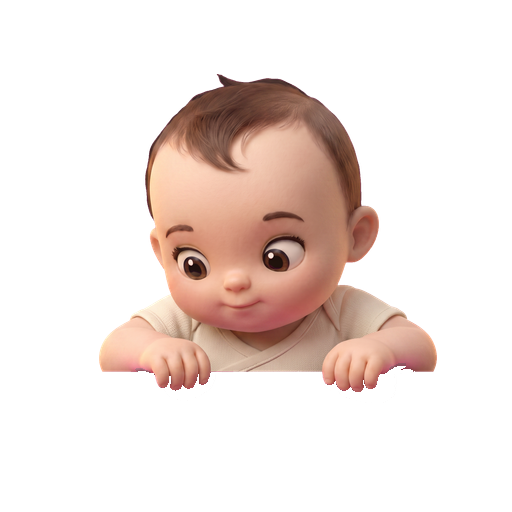
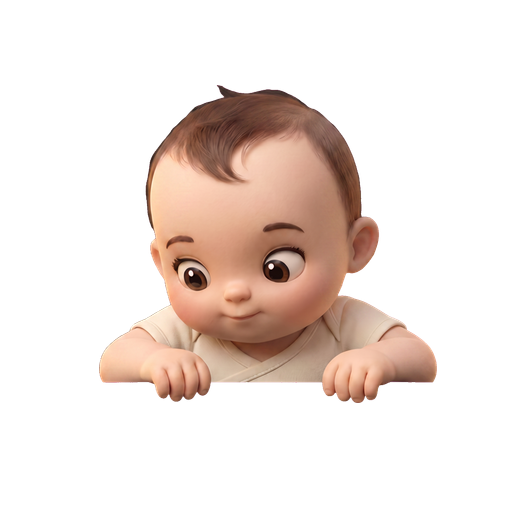
docs(art-bible): grip composition contract + B2 color guideline from owner/critic loop; clean regenerated mascot proof

Changed region(s): [[0.1875, 0.125, 0.875, 0.8125]]

diff --git a/docs/design-notes/art-bible-2026-08-02.md b/docs/design-notes/art-bible-2026-08-02.md
@@ -72,7 +72,23 @@ produksjon (eierbestilling 2026-08-02).
 - Maskoten: samme karakter som maskot.png (identitet er LÅST — ansikt,
   hårvirvel, kremdrakt), re-belyst i riggen. Karakterendring er en egen
   merkevarebeslutning som IKKE tas i billedproduksjon.
+- **Grep-komposisjonen (portdom):** maskoten genereres ALLTID uten bakt
+  list — hendene krummet over en USYNLIG kant, ren chroma overalt
+  («rens aldri det genereringen kan la være å lage»; tre mislykkede
+  pixel-kirurgi-runder beviste at listerest ikke kan skilles fra
+  babyfingre). I UI-et draperer fingertuppene FORAN selve petrol-panelets
+  kantlyste topp, kropp/underarmer bak; grepet skapes av panelets
+  kantlys + en separat stram kontaktskygge under fingrene (dobbel
+  drop-shadow: 2 px stram + 6 px myk). Hender bak kanten svekker både
+  dybden og Babyoras signatur.
 - ALDRI recoloring av plagg for å passe tema. Plaggets farge er innhold.
+- **Fargevalg ved regenerering (portdom, B2-retningslinje):** mørke,
+  prototypiske plagg (marineblå vinterdress o.l.) beholder fargen —
+  systemet håndterer dem via backplate-klasse/inner-halo (uniform plate,
+  lys bak plagget — aldri synlig plateforskjell). Der flere farger er
+  LIKE representative for en plaggtype kan den varme autentiske
+  varianten velges — men aldri ofre gjenkjennelse, katalogsannhet eller
+  realistisk garderobevariasjon for palettharmoni.
 
 ## Teknisk produksjon
 
